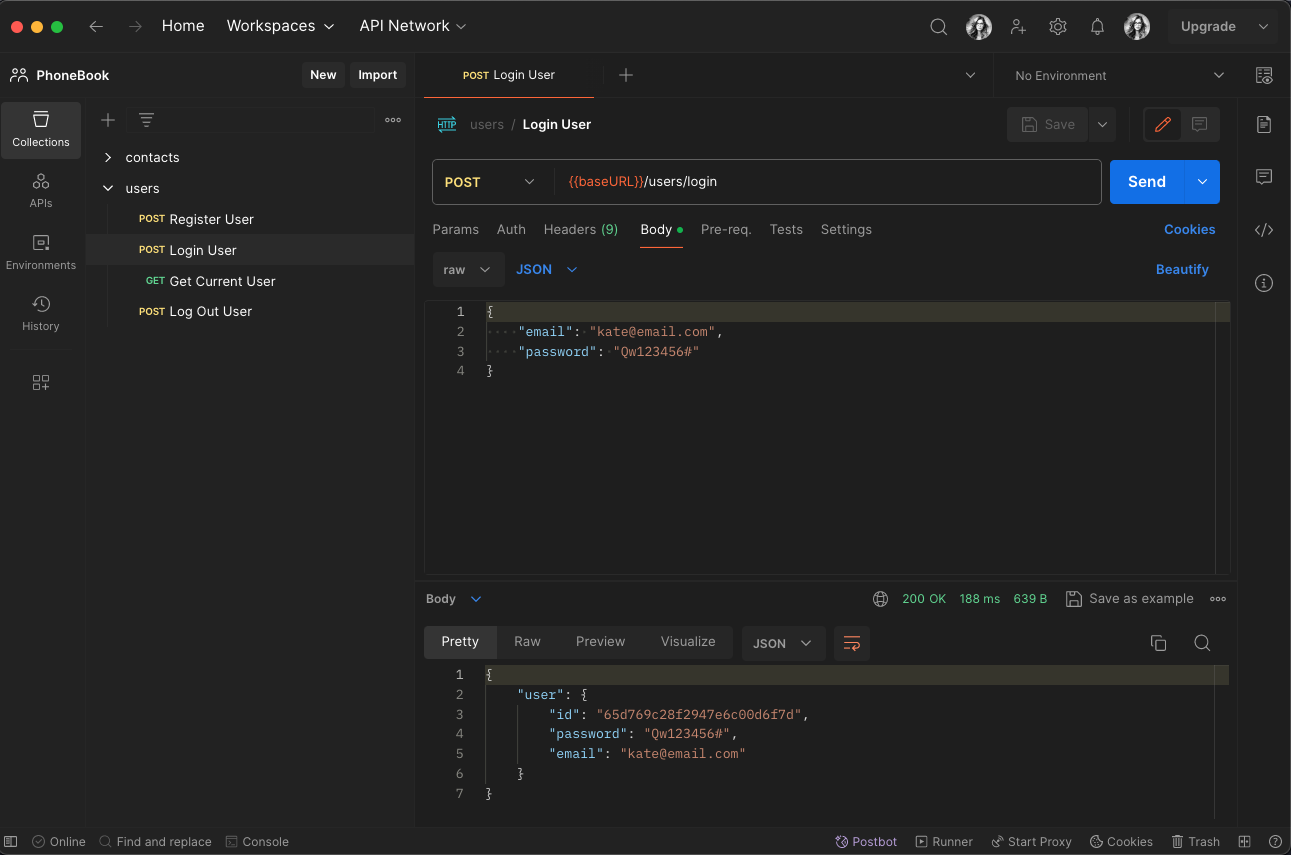
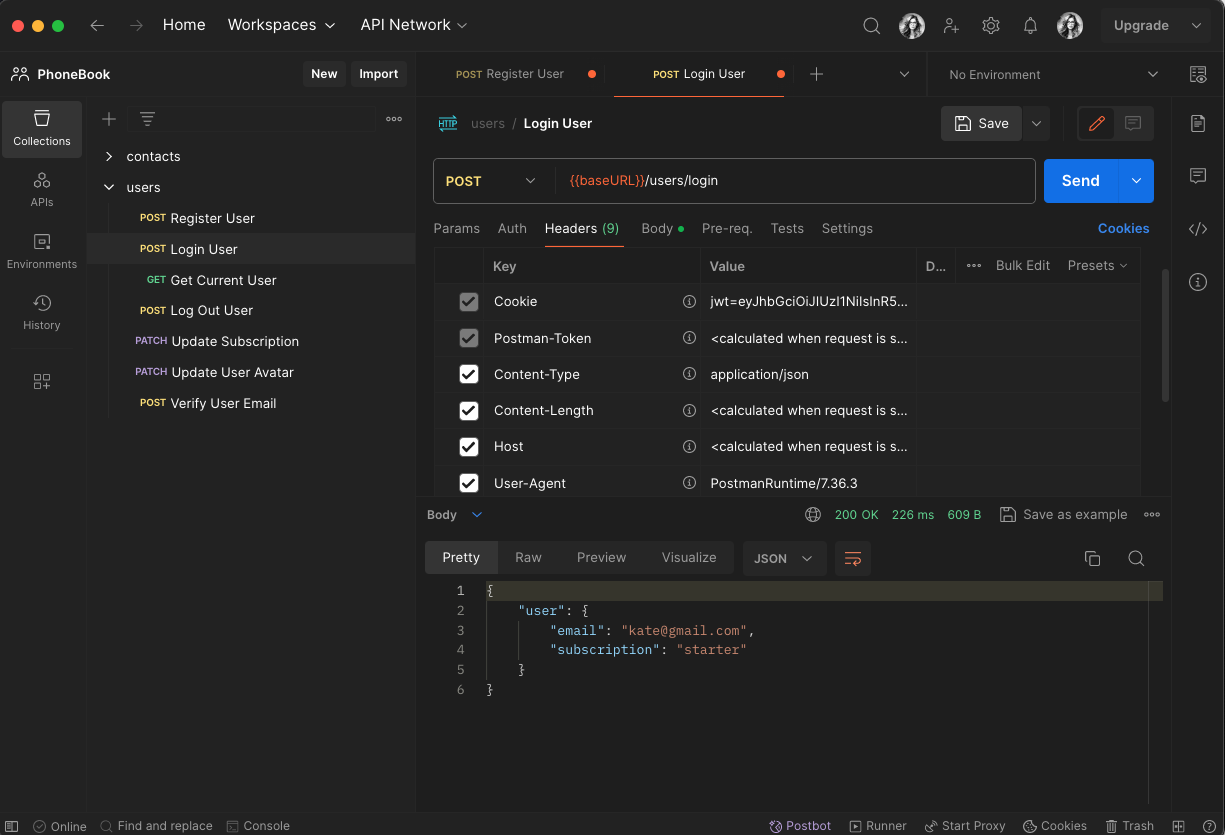
revision after review

diff --git a/controllers/userControllers.js b/controllers/userControllers.js
@@ -1,4 +1,3 @@
-import jwt from 'jsonwebtoken';
 import bcrypt from 'bcryptjs';
 import User from '../models/userModel.js';
 import HttpError from '../helpers/HttpError.js';
@@ -27,20 +26,20 @@ export const loginUser = async (req, res) => {
   const { email, password } = req.body;
 
   const user = await User.findOne({ email });
+  const passwordCompare = user && await bcrypt.compare(password, user.password);
 
-  if (user && (await user.matchPassword(password))) {
-    generateToken(res, user._id);
-
-    res.status(200).json({
-      user: {
-        id: user._id,
-        password,
-        email,
-      },
-    });
-  } else {
-    res.status(401).json({ message: 'Not authorized' });
+  if (!user || !passwordCompare) {
+    throw HttpError(401, "Email or password invalid");
   }
+
+  generateToken(res, user._id);
+
+  res.status(200).json({
+    user: {
+      email,
+      subscription: user.subscription,
+    },
+  });
 };
 
 export const getCurrentUser = async (req, res) => {
@@ -75,6 +74,5 @@ export const updateSubscription = async (req, res) => {
   if (!updatedUser) {
     throw new HttpError(404);
   }
-
-  res.status(200).json({ message: `You have updated your subscription to ${updatedUser.subscription}` });
+  res.status(200).json({ subscription });
 };

diff --git a/middleware/authMiddleware.js b/middleware/authMiddleware.js
@@ -3,23 +3,20 @@ import HttpError from "../helpers/HttpError.js";
 import User from "../models/userModel.js";
 
 export const protect = async (req, res, next) => {
-  let token;
+  try {
+    const token = req.cookies.jwt;
 
-  token = req.cookies.jwt;
-
-  if (token) {
-    try {
-      const decoded = jwt.verify(token, process.env.JWT_SECRET);
-
-      req.user = await User.findById(decoded.userId).select('-password');
-
-      next();
-    } catch (err) {
-      next(HttpError(401, err.message))
+    if (!token) {
+      throw HttpError(401, 'Not authorized, no token');
     }
-  } else {
-    res.status(401).json({ message: 'Not authorized, no token' });
+
+    const decoded = jwt.verify(token, process.env.JWT_SECRET);
+    req.user = await User.findById(decoded.userId).select('-password');
+
+    next();
+  } catch (err) {
+    next(HttpError(401, err.message));
   }
-}
+};
 
 

diff --git a/controllers/contactControllers.js b/controllers/contactControllers.js
@@ -5,13 +5,19 @@ export const getAllContacts = async (req, res) => {
   const { _id: owner } = req.user;
   const { favorite } = req.query;
 
-  const page = Number(req.query.page) || 1;
-  const limit = Number(req.query.limit) || 5;
-  const skip = (page - 1) * limit;
+  const { page = 1, limit = 5 } = req.query;
+  const pageNumber = Number(page);
+  const limitNumber = Number(limit);
+  const skip = (pageNumber - 1) * limitNumber;
 
   let filter = { owner };
-  if (favorite) {
-    filter.favorite = favorite === 'true';
+
+  if (favorite !== undefined) {
+    if (favorite === 'true') {
+      filter.favorite = true;
+    } else if (favorite === 'false') {
+      filter.favorite = false;
+    }
   }
 
   try {

diff --git a/models/userModel.js b/models/userModel.js
@@ -1,6 +1,4 @@
-import express from 'express';
 import mongoose from 'mongoose';
-import bcrypt from 'bcryptjs';
 import { handleMongooseError } from '../helpers/handleMongooseError.js';
 
 const userSchema = mongoose.Schema({
@@ -19,10 +17,6 @@ const userSchema = mongoose.Schema({
     default: "starter"
   },
 }, { versionKey: false, timestamps: true });
-
-userSchema.methods.matchPassword = async function (enteredPassword) {
-  return await bcrypt.compare(enteredPassword, this.password);
-};
 
 userSchema.post('save', handleMongooseError);
 
